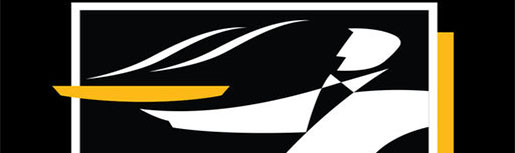
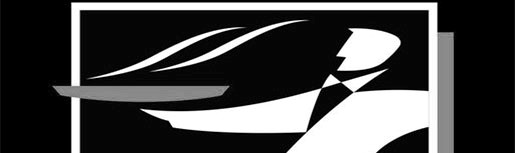
added black and white images

Changed region(s): [[0.8388, 0.2092, 0.901, 1.0], [0.0932, 0.549, 0.466, 0.6797]]

diff --git a/sass/partials/_responsive.scss b/sass/partials/_responsive.scss
@@ -3,9 +3,15 @@
 //     .top-nav {padding-top: 10px;}
 //     .top-nav a {font-size: 18px;}
 //   }
-
+// ===== Extra small screens  =========== //
+@media(max-width: 380px){
+    
+}
 /* ============ Mobile Only Resonsive view ================  */
 @media screen and (max-width: 680px){
+    .backGround {
+        background: #eee;
+    }
     // Mobile Fonts
     .center-content {
         font-size: 1.5em;
@@ -27,6 +33,7 @@
         
         ul {
             display: flex;
+            padding: 0;
             // margin: 0;
             // display the list in one line on mobile
         }

diff --git a/index.html b/index.html
@@ -180,7 +180,7 @@
                         <h3>Duties</h3>
                         <p>Intern for a week at a Biometric Technology Company, Learning about Biometrics</p>
                     </div>
-                    <img src="images/Trac-Tech Logo.png" alt="trac Tech">
+                    <img src="images/Trac-Tech Logo.png.jpg" alt="trac Tech">
                 </div>
                 <div class="work-item">
                     <div class="work-info">

diff --git a/sass/partials/_layouts.scss b/sass/partials/_layouts.scss
@@ -59,8 +59,7 @@ main {
 .backGround {
     height: 90vh;
     text-align: center;
-    // background: url('/images/BG_1.jpg');
-    background: url('https://raw.githubusercontent.com/giordifungula/online-cv/master/images/bg-laptop.jpg'),linear-gradient(to right, #1591da, #000000);
+    // background: #1591da
     background-repeat: no-repeat;
     background-size: cover;
     background-position: center;
